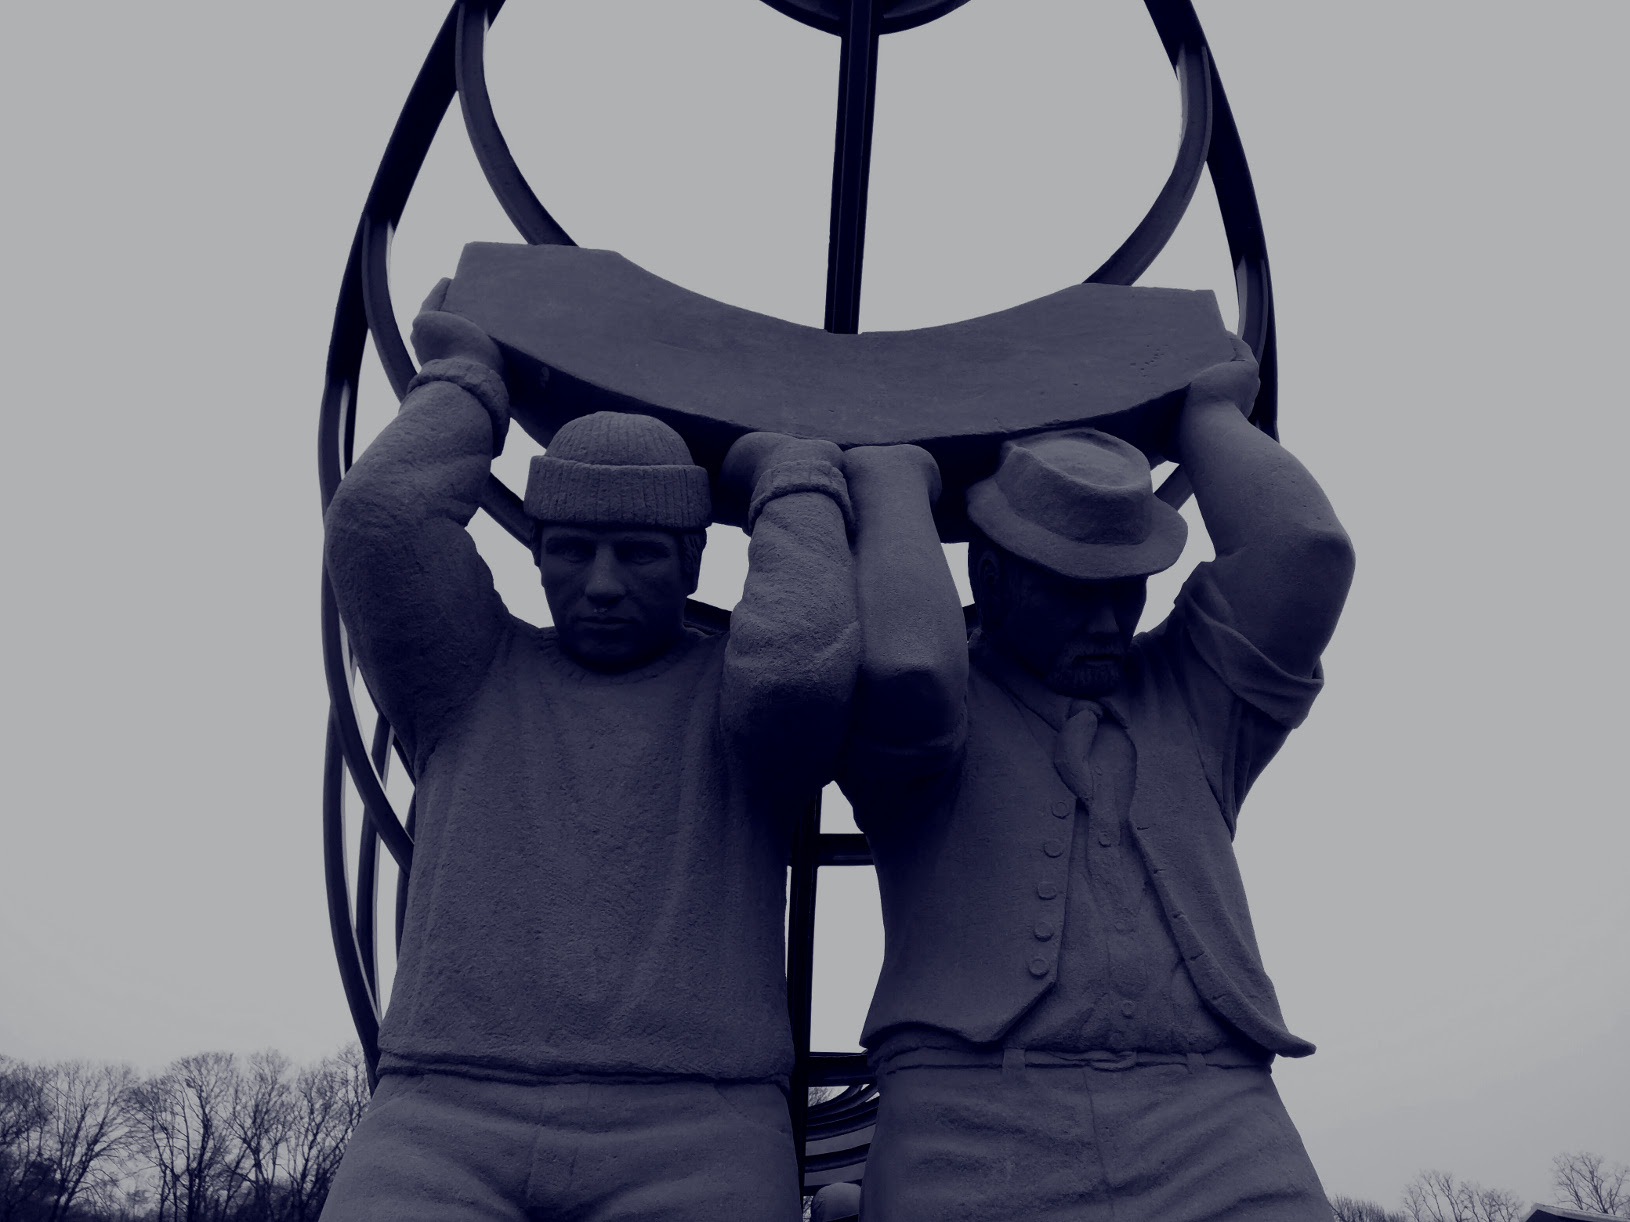
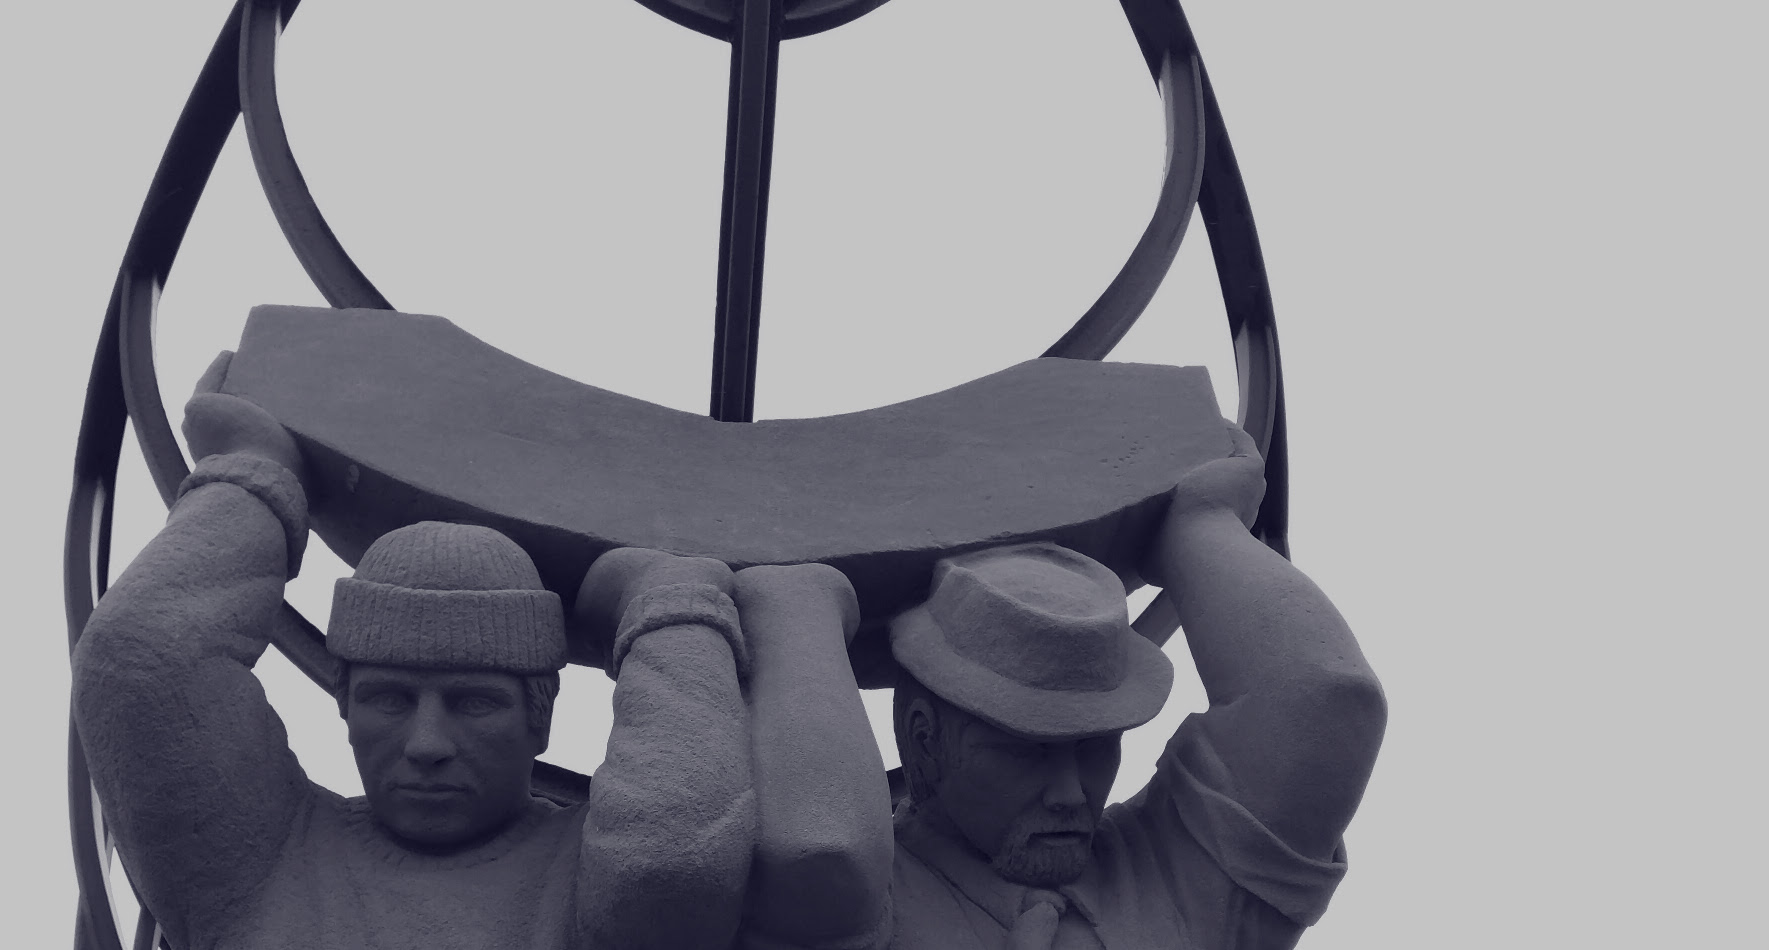
Change about-bg

diff --git a/assets/css/main.css b/assets/css/main.css
@@ -588,7 +588,7 @@ body {
 
 section.about {
   background-image: url(../img/about-bg.jpg);
-  background-position: center bottom;
+  background-position: center;
   background-size: cover; }
 
 .home-container {

diff --git a/assets/css/3-sections/home-about.sass b/assets/css/3-sections/home-about.sass
@@ -1,5 +1,5 @@
 section.about
   background:
     image: url(../img/about-bg.jpg)
-    position: center bottom
+    position: center
     size: cover
